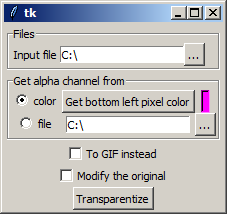
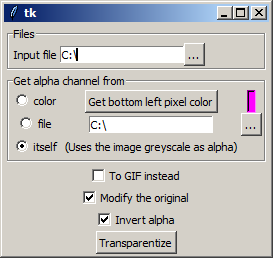
Add a 'invert alpha' checkbox
If active white will be transparent, and black opaque. If using alpha key, everything but it will be transparent.

diff --git a/Transparentizer.py b/Transparentizer.py
@@ -78,9 +78,15 @@ def transparentize() :
 		newdata = []
 		for item in datas :
 			if item[0] == replacement[0][0] and item[1] == replacement[0][1] and item[2] == replacement[0][2] :
-				newdata.append( replacement[1] )
+				if invertAlpha.get() :
+					newdata.append( item )
+				else :
+					newdata.append( replacement[1] )
 			else :
-				newdata.append( item )
+				if invertAlpha.get() :
+					newdata.append( replacement[1] )
+				else :
+					newdata.append( item )
 			
 		img.putdata(newdata)
 		
@@ -107,6 +113,9 @@ def transparentize() :
 				else :
 					A = 128
 				
+				if invertAlpha.get() :
+					A = 255-A
+				
 				pix[x,y] = (R,G,B,A)
 			
 		
@@ -124,6 +133,9 @@ def transparentize() :
 			for x in range( img.size[0] ) :
 				R, G, B, A = pix[x,y]
 				A = int( (R*0.3) + (G*0.5) + (B*0.2) )
+				
+				if invertAlpha.get() :
+					A = 255-A
 				
 				pix[x,y] = (R,G,B,A)
 			
@@ -210,6 +222,10 @@ eraseOriginal = Tk.IntVar()
 ck_eraseOriginal = Tk.Checkbutton(window, text="Modify the original", variable=eraseOriginal)
 ck_eraseOriginal.pack()
 
+# Checkbox : invert alpha
+invertAlpha = Tk.IntVar()
+ck_invertAlpha = Tk.Checkbutton(window, text="Invert alpha", variable=invertAlpha)
+ck_invertAlpha.pack()
 
 Tk.Button(window, text="Transparentize", command=transparentize).pack()
 
